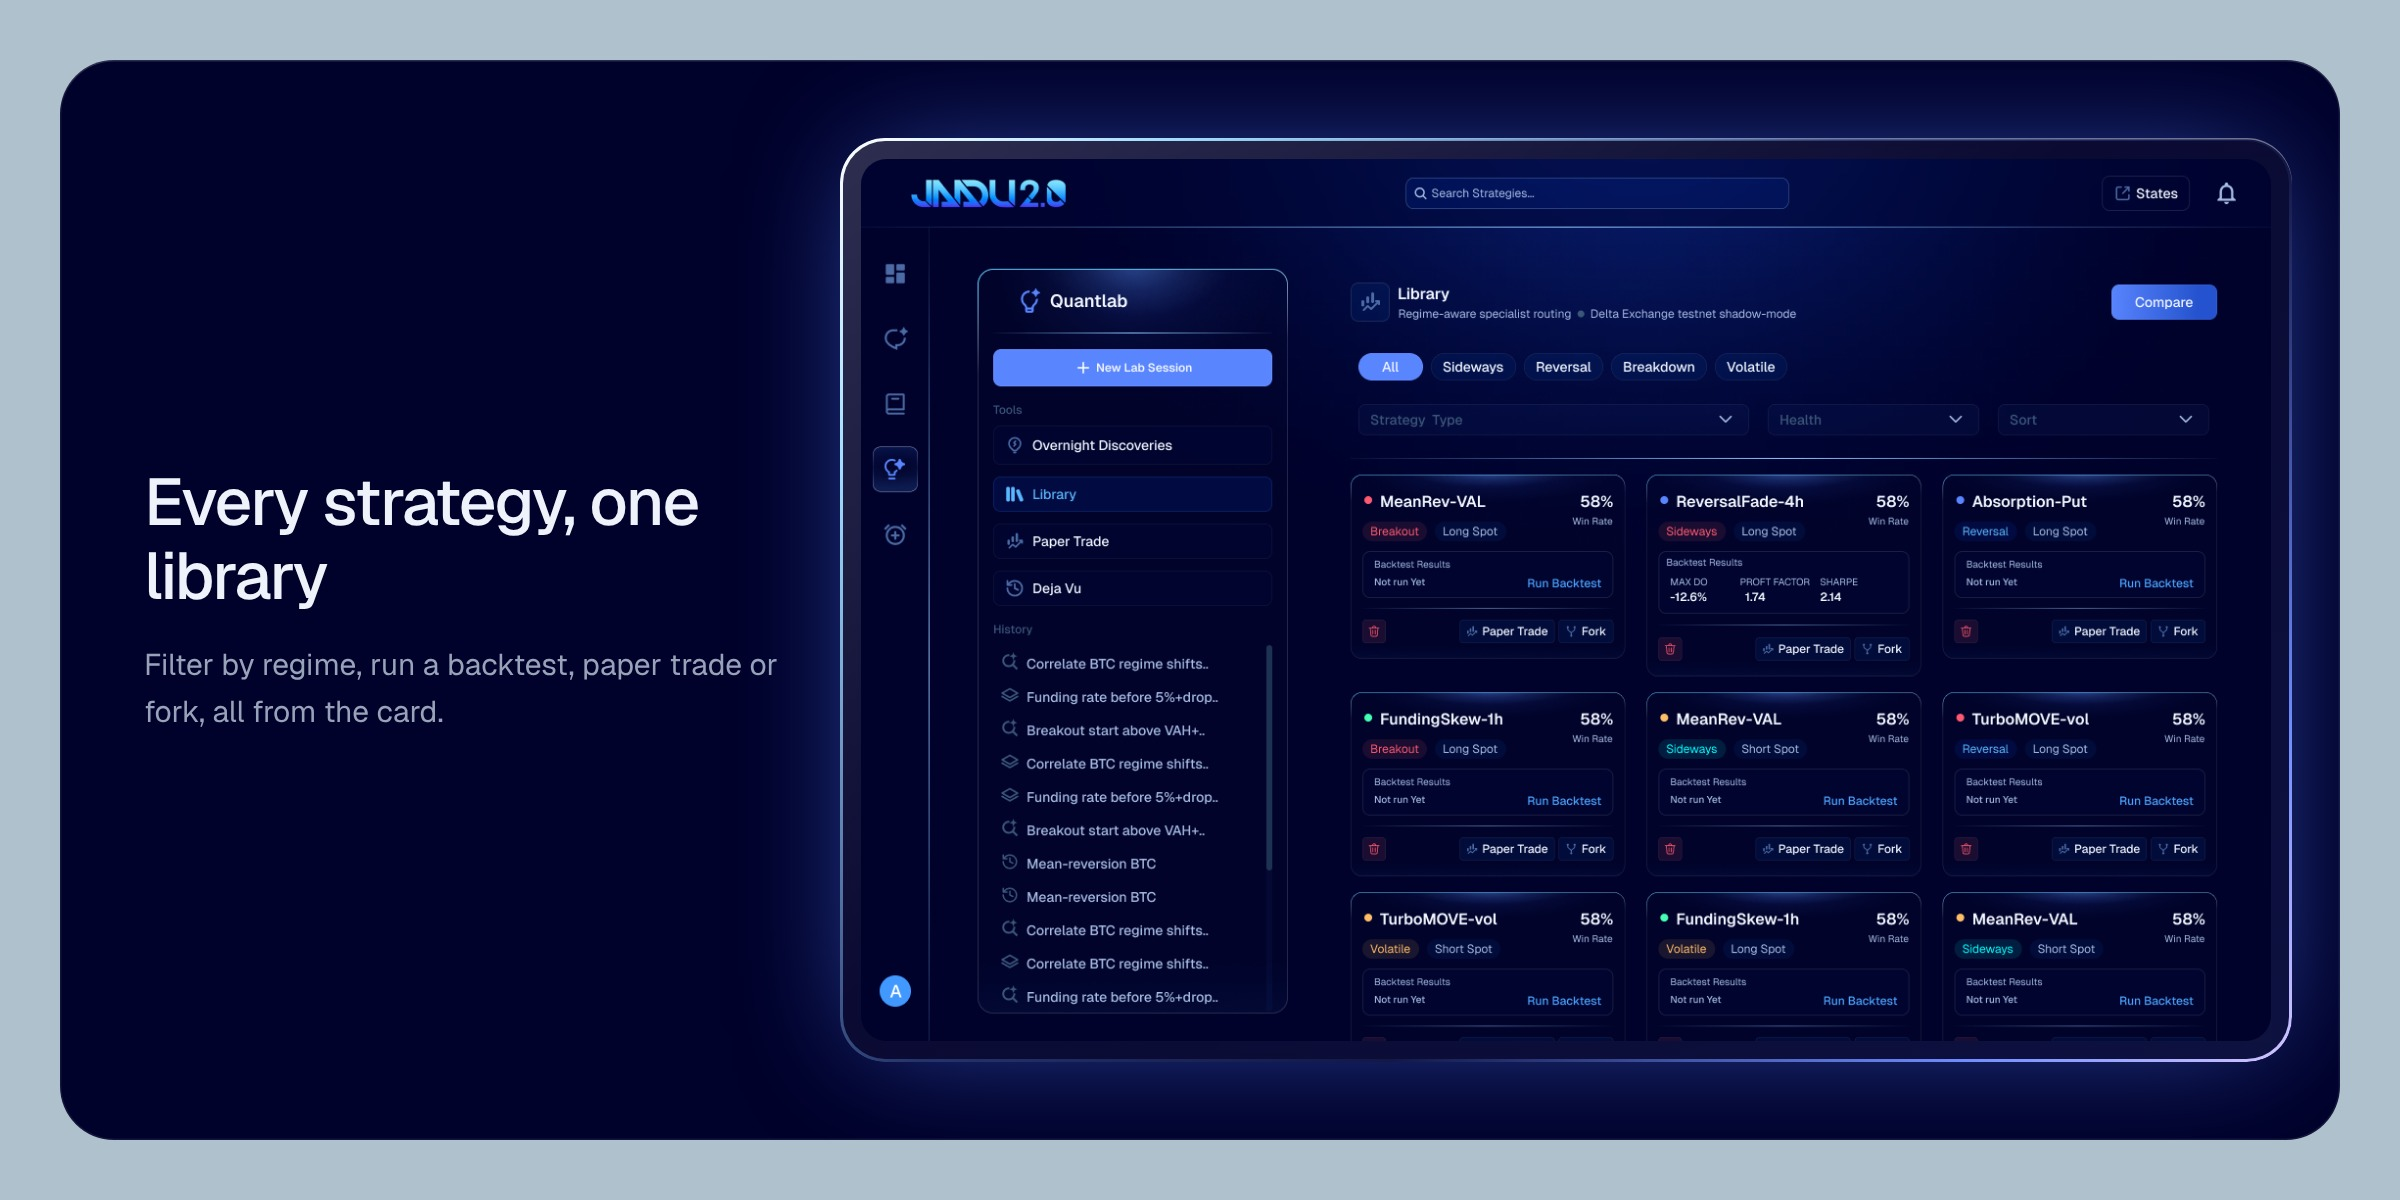
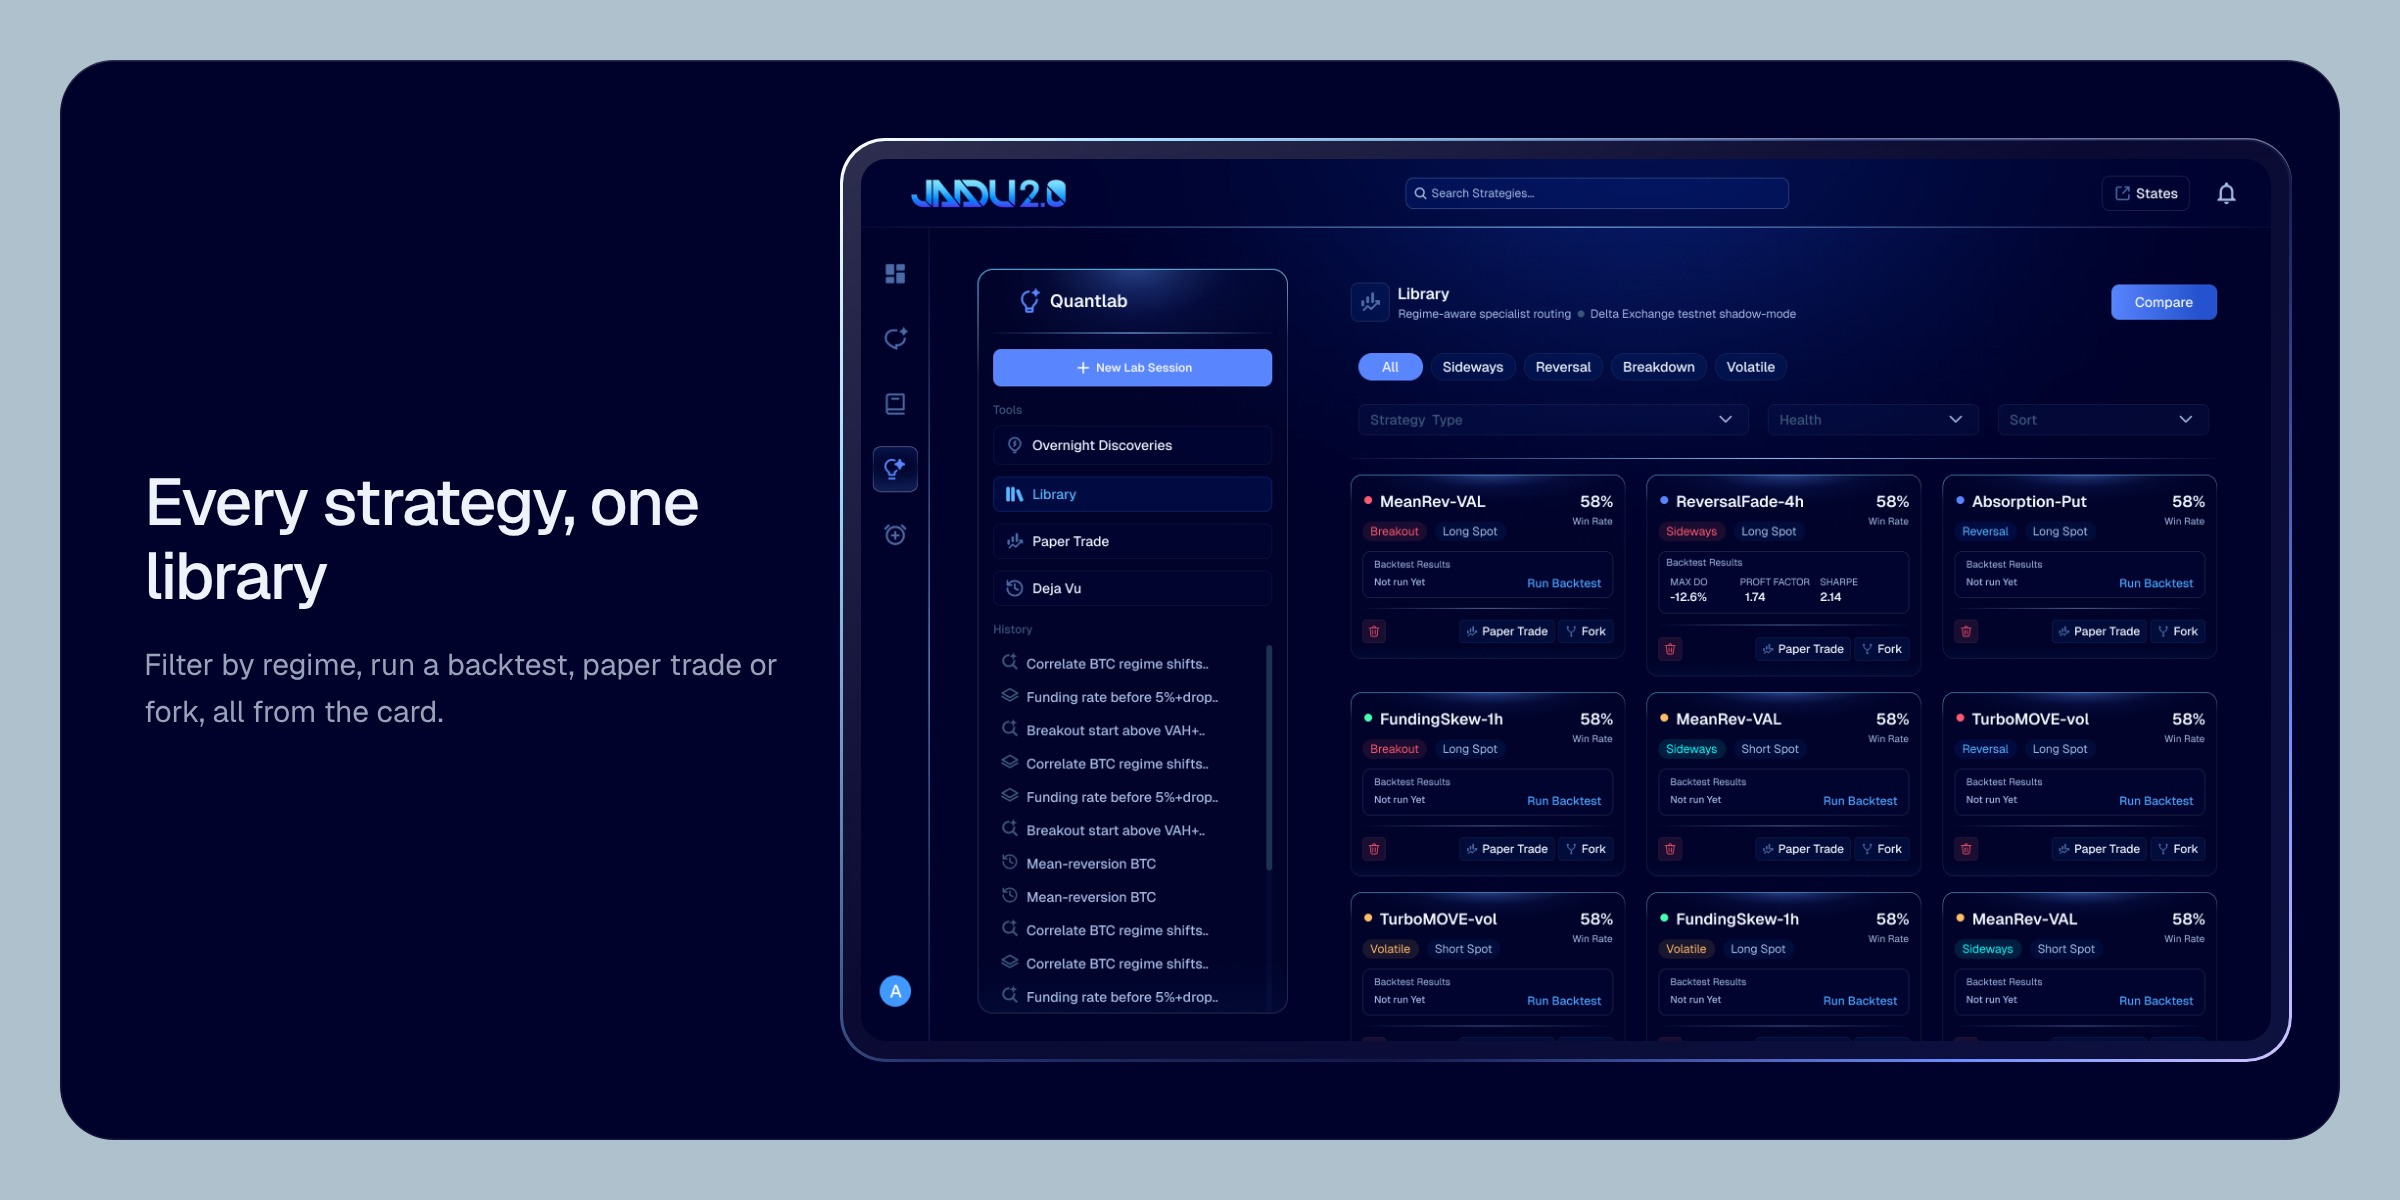
Jaadu bento: no glow shadow on the footprint and library frames
Claude-Session: https://claude.ai/code/session_01L48ecgvWMXiCwrAdC3aGTG

diff --git a/scripts/mockups/jaadu/bento.html b/scripts/mockups/jaadu/bento.html
@@ -10,14 +10,14 @@ body{margin:0;background:#fff}
 .t .cap p{margin:10px 0 0;font:400 18px/1.5 Geist;color:#98A3BA;max-width:520px}
 .t .fade{position:absolute;left:0;right:0;bottom:0;z-index:3;background:linear-gradient(180deg,rgba(0,2,43,0),#00022B 62%)}
 .c{position:absolute;z-index:2;display:block;border-radius:18px}
-.glow{position:absolute;z-index:2;border-radius:30px;padding:16px;background:linear-gradient(135deg,#7FB6FF,#3D6BFF 40%,#2346C8);box-shadow:0 0 70px -10px rgba(70,120,255,.55)}
+.glow{position:absolute;z-index:2;border-radius:30px;padding:16px;background:linear-gradient(135deg,#7FB6FF,#3D6BFF 40%,#2346C8)}
 .glow img{display:block;border-radius:16px}
 .ghost{position:absolute;z-index:1;border-radius:32px;border:2px solid rgba(255,255,255,.14);background:rgba(255,255,255,.02)}
 .wide .side{position:absolute;left:56px;top:0;bottom:0;width:440px;display:flex;flex-direction:column;justify-content:center}
 .wide .side h3{margin:0;font:500 44px/1.12 Geist;color:#EEF2FA;letter-spacing:-.025em}
 .wide .side p{margin:20px 0 0;font:400 20px/1.55 Geist;color:#98A3BA}
 .stackbar{position:absolute;z-index:1;border-radius:0 0 22px 22px;background:#22304F;box-shadow:inset 0 0 0 1px rgba(255,255,255,.06)}
-.gb{position:absolute;z-index:2;padding:14px;border-radius:30px;background:linear-gradient(145deg,rgba(255,255,255,.18),rgba(255,255,255,.04) 45%,rgba(130,170,255,.10));backdrop-filter:blur(20px);box-shadow:inset 0 1px 0 rgba(255,255,255,.4),0 0 80px -16px rgba(80,125,255,.6)}
+.gb{position:absolute;z-index:2;padding:14px;border-radius:30px;background:linear-gradient(145deg,rgba(255,255,255,.18),rgba(255,255,255,.04) 45%,rgba(130,170,255,.10));backdrop-filter:blur(20px);box-shadow:inset 0 1px 0 rgba(255,255,255,.4)}
 .gb::before{content:'';position:absolute;inset:0;border-radius:inherit;padding:1.6px;pointer-events:none;background:linear-gradient(135deg,#fff 0%,#9fdcff 14%,rgba(110,160,255,.28) 42%,rgba(110,160,255,.08) 62%,#6f8dff 86%,#d2c4ff 100%);-webkit-mask:linear-gradient(#000 0 0) content-box,linear-gradient(#000 0 0);-webkit-mask-composite:xor;mask-composite:exclude}
 .gb img{display:block;border-radius:17px}
 </style>
